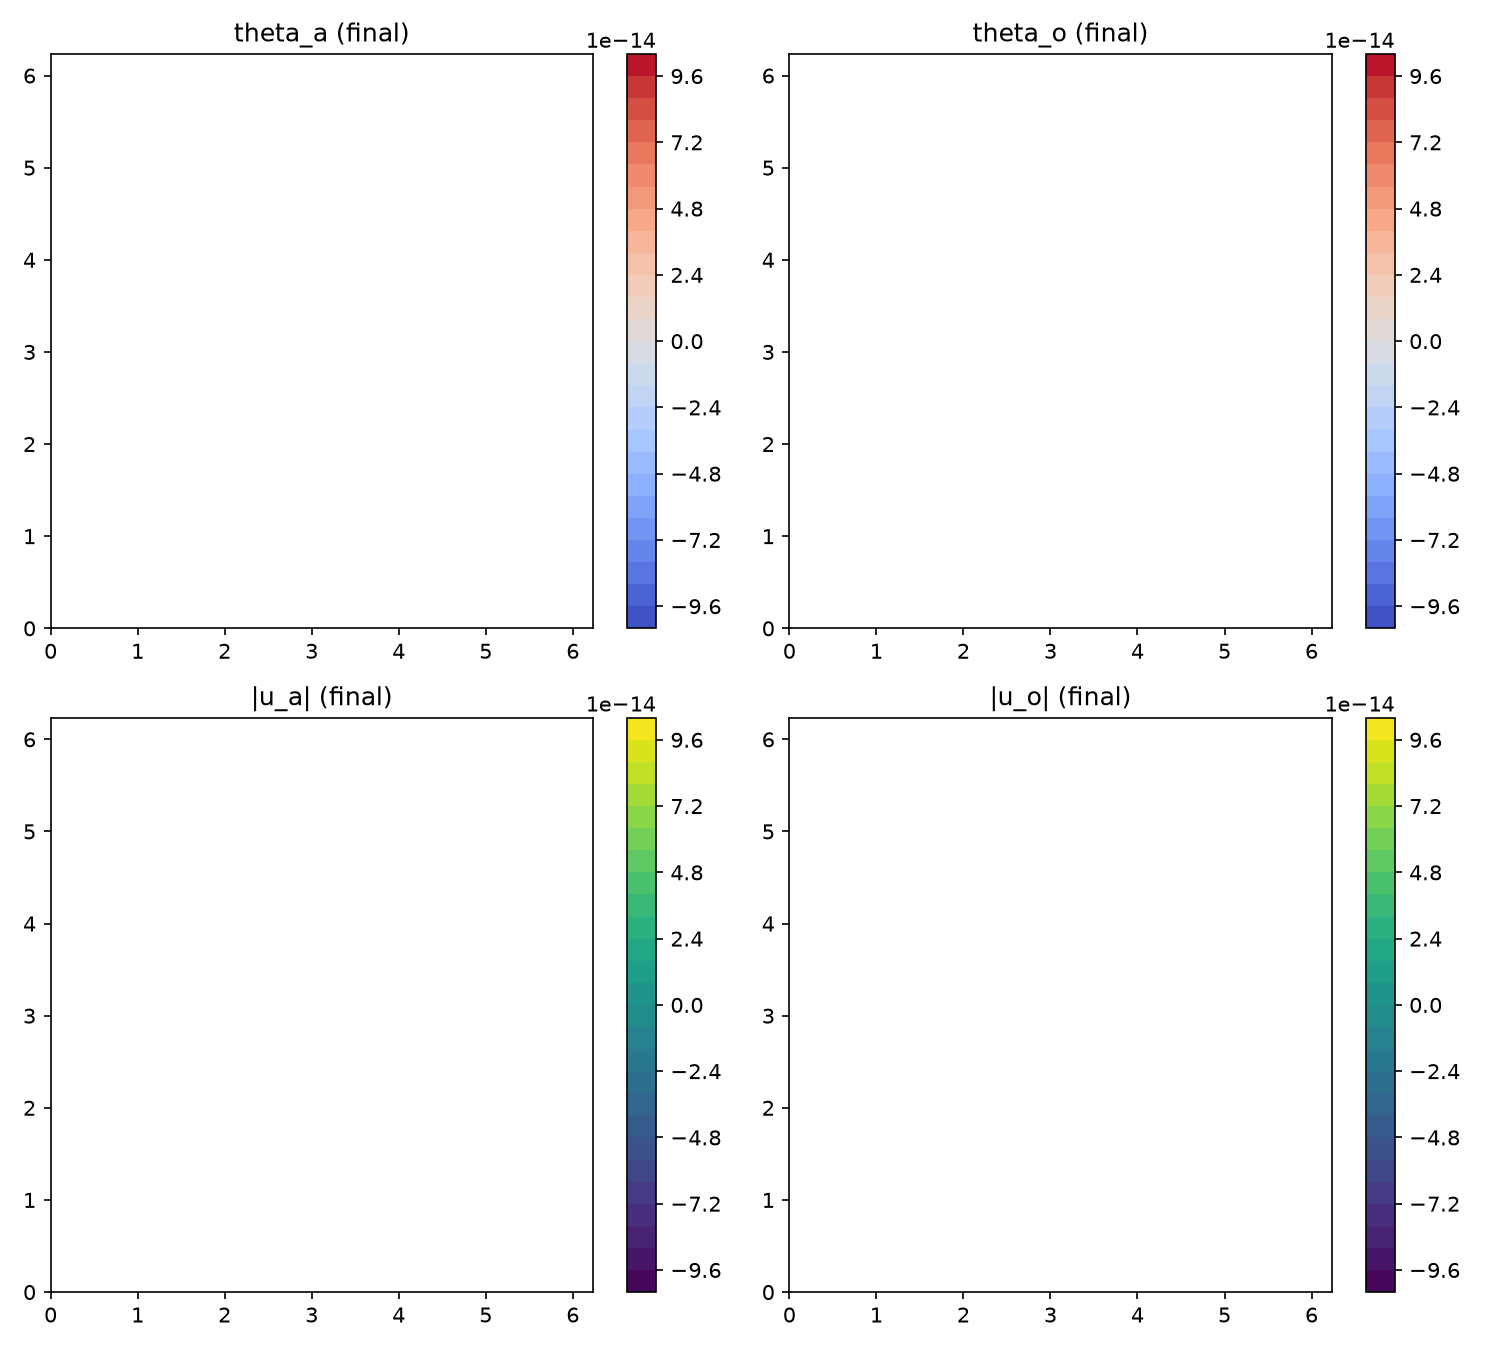
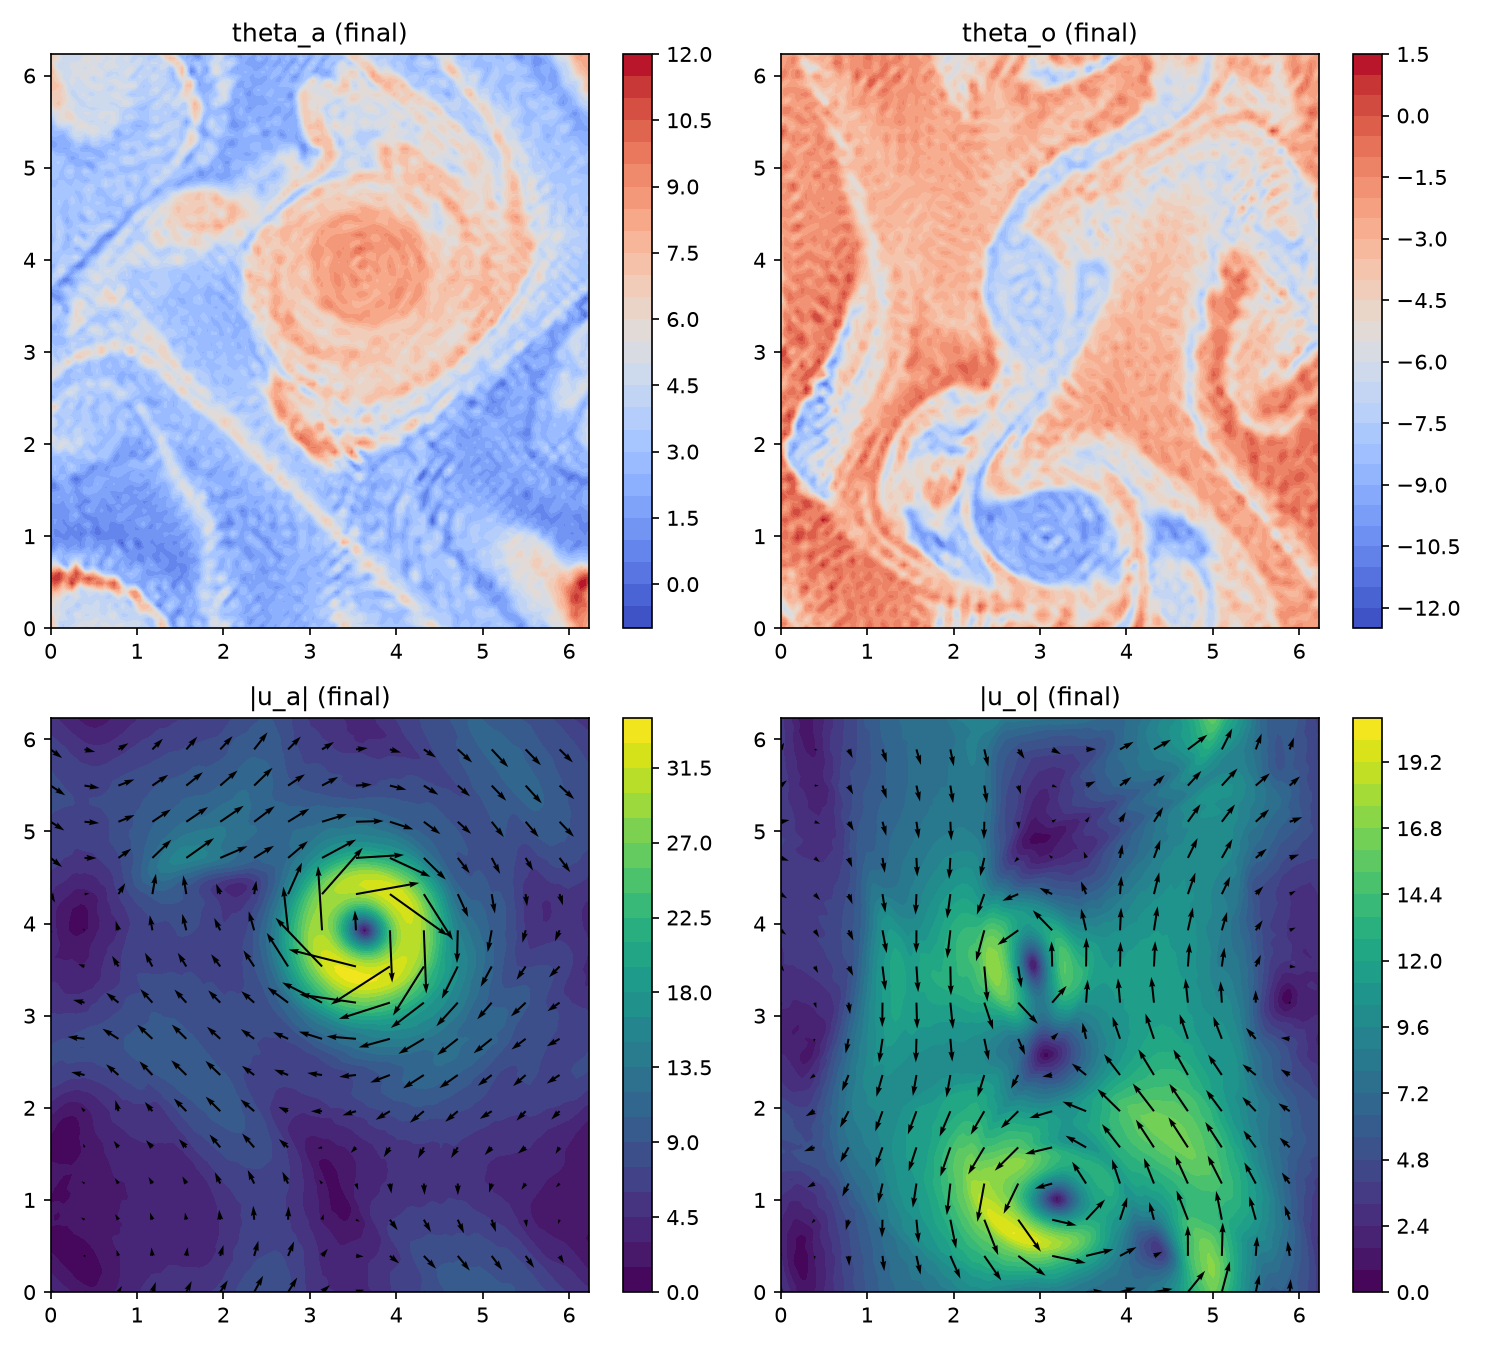
Final code

diff --git a/coupled_atmos_ocean.py b/coupled_atmos_ocean.py
@@ -71,8 +71,8 @@ Pea, Peo   = 2.0e3, 2.0e3  # Peclet numbers
 gamma      = -0.5          # atmosphere<-ocean temperature coupling (gamma<0)
 sigma      = -0.5          # ocean<-atmosphere velocity coupling (sigma<0)
 
-dt         = 2.0e-3
-n_steps    = 4000
+dt         = 2.0e-4      # reduced time step to avoid instability
+n_steps    = 20000
 save_every = 200
 
 rng = np.random.default_rng(0)
